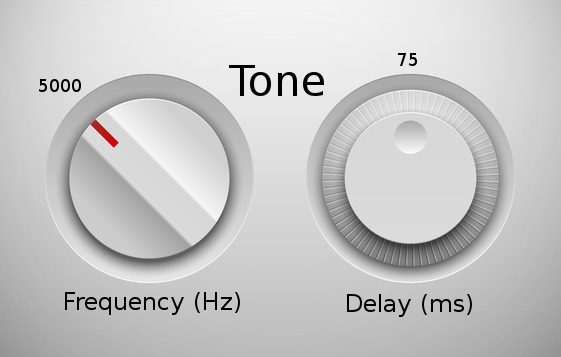
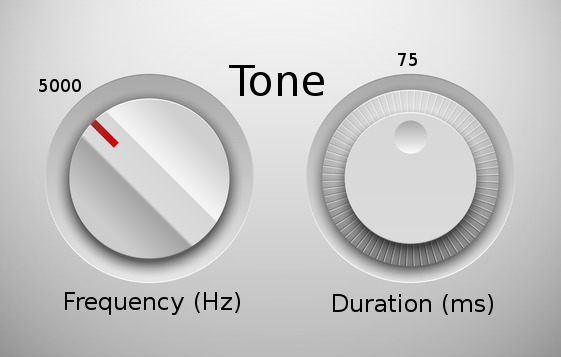
Added lots of slides.

Changed region(s): [[0.5758, 0.8011, 0.8788, 0.8936]]

diff --git a/languages-human-electo-mechanical.md b/languages-human-electo-mechanical.md
@@ -8,9 +8,9 @@ layout: presentation
 
 > "Change tone frequency to 5000 Hz please."
 >
-> "Change tone delay to 75 ms please."
+> "Change tone duration to 75 ms please."
 
-# [](#header-2) Transmitter
+# [](#header-2) Electro-Mechanical
 
 Information is stored kinetically and electronically.
 
@@ -18,4 +18,4 @@ Mass is distributed geometrically in 3D space and time.
 
 Electronic component values and electric signals.
 
-[![](assets/img/kinetic.png)](language-knob)
+[![](assets/img/knobs-signals.png)](processor)

diff --git a/languages-human-processor.md b/languages-human-processor.md
@@ -10,10 +10,10 @@ layout: presentation
 >
 > "Change tone duration to 75 ms please."
 
-# [](#header-2) Mechanical
+# [](#header-2) Processor
 
-Information is stored kinetically.
+Information is stored digitally.
 
-Mass is distributed geometrically in 3D space and time.
+Machine code instruction set.
 
-[![](assets/img/kinetic.png)](language-knob)
+[![](assets/img/machine-code.png)](language-software)

diff --git a/language-software.md b/language-software.md
@@ -1,0 +1,21 @@
+---
+layout: presentation
+---
+
+# [](#header-1) Software
+
+High-level programming languages add abstraction to machine languages to be
+closer to natural human languages.
+
+```python
+def askMouseToReachForPellet:
+    playTone()
+
+askMouseToReachForPellet()
+
+setToneFrequency(5000)
+
+setToneDuration(75)
+```
+
+[![](assets/img/software.png)](software-electro-mechanical)

diff --git a/electro-mechanical.md b/electro-mechanical.md
@@ -4,4 +4,4 @@ layout: presentation
 
 # [](#header-1) Electro-Mechanical Transmitter
 
-[![](assets/img/electro-mechanical.png)]()
+[![](assets/img/electro-mechanical.png)](pcb)

diff --git a/software-electro-mechanical.md b/software-electro-mechanical.md
@@ -1,0 +1,7 @@
+---
+layout: presentation
+---
+
+# [](#header-1) Software-Electro-Mechanical Transmitter
+
+[![](assets/img/software-electro-mechanical.png)](pcb)

diff --git a/human-robot-pcb.md b/human-robot-pcb.md
@@ -1,0 +1,5 @@
+---
+layout: presentation
+---
+
+[![](assets/img/human-robot-pcb.png)](languages-human-electro-mechanical)

diff --git a/processor.md b/processor.md
@@ -1,0 +1,7 @@
+---
+layout: presentation
+---
+
+# [](#header-1) Processor
+
+[![](assets/img/processor.png)](software)

diff --git a/pcb.md b/pcb.md
@@ -1,0 +1,5 @@
+---
+layout: presentation
+---
+
+[![](assets/img/pcb.png)](human-robot-pcb)
